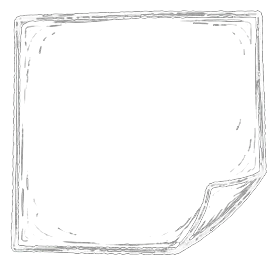
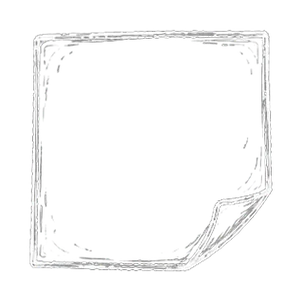
Demo 1 edits part 2: straight planner notes, Q48, Q51, wording
- Planner notes straight: tilt removed from PNGs in prepare-assets.py, uniform padding
- Q51: light --pencil-muted #6E6E6E; Q48: user data screen shows only the name
- Card without steps: muted "Видалити квест" under "Готово" with confirmation
- UI wording: "справа" instead of "нотатка", card subtitle always "Квест на ..."
- Nav label "Сьогодні" for the Planner tab; terms v1.1; Ukrainian proofreading
- Spec, CLAUDE.md, CLIENT_QUESTIONS.md and report updated

Changed region(s): [[0.0289, 0.0302, 0.9819, 0.966], [0.8087, 0.5736, 0.8375, 0.6038], [0.2022, 0.1811, 0.231, 0.2113]]

diff --git a/apps/mini-app/src/data/terms.js b/apps/mini-app/src/data/terms.js
@@ -1,4 +1,4 @@
-export const TERMS_VERSION = '1.0';
+export const TERMS_VERSION = '1.1';
 
 export const TERMS = {
   title: 'Умови користування',
@@ -10,20 +10,20 @@ export const TERMS = {
       text: 'Plan It Today допомагає планувати справи. Це не медична, психологічна чи юридична послуга й не замінює фахівця.',
     },
     {
-      title: 'Твої нотатки',
-      text: 'Нотатки й картки належать тобі й бачиш їх лише ти. Адміністрація бачить тільки загальну статистику (кількість користувачів і карток) і технічні дані. Зміст нотаток їй недоступний.',
+      title: 'Твої справи',
+      text: 'Справи й кроки належать тобі й бачиш їх лише ти. Адміністрація бачить тільки загальну статистику (кількість користувачів і карток) і технічні дані. Зміст справ їй недоступний.',
     },
     {
       title: 'Які дані ми зберігаємо',
-      text: 'Твій Telegram-ідентифікатор, нотатки, кроки, дати та налаштування (наприклад, тема). Геолокацію, контакти й файли ми не збираємо. Повний перелік твоїх даних: «Налаштування → Дані користувача».',
+      text: 'Твій Telegram-ідентифікатор, справи, кроки, дати та налаштування (наприклад, тема). Геолокацію, контакти й файли ми не збираємо. Видалити всі дані можна в «Налаштування → Дані користувача».',
     },
     {
       title: 'Не записуй зайвого',
-      text: 'Не зберігай у нотатках паролі, номери банківських карток і документи. Чутливі речі (наприклад, про здоров\'я) записуй лише якщо тобі це зручно.',
+      text: 'Не зберігай у справах паролі, номери банківських карток і документи. Чутливі речі (наприклад, про здоров\'я) записуй, лише якщо тобі це зручно.',
     },
     {
       title: 'ШІ',
-      text: 'У поточній версії ШІ не обробляє твої нотатки. Якщо така функція з\'явиться, ми попросимо окрему згоду.',
+      text: 'У поточній версії ШІ не обробляє твої справи. Якщо така функція з\'явиться, ми попросимо окрему згоду.',
     },
     {
       title: 'Видалення',

diff --git a/apps/mini-app/src/screens/quest.js b/apps/mini-app/src/screens/quest.js
@@ -22,7 +22,7 @@ import { store } from '../data/store.js';
 const STEP_MAX_LENGTH = 80;
 const TITLE_MAX_LENGTH = 500;
 
-const state = { cardId: null, adding: false, stepId: null, draft: null, month: '' };
+const state = { cardId: null, adding: false, stepId: null, draft: null, month: '', confirmDelete: false };
 let root = null;
 
 const getCard = () => store.getCard(state.cardId);
@@ -30,8 +30,7 @@ const getStep = () => store.getSteps().find((step) => step.id === state.stepId);
 
 function getSubtitle(card, progress, today) {
   if (card.status === 'done') return 'Виконано';
-  const kind = isQuest(progress) ? 'Квест' : 'Нотатка';
-  return card.date <= today ? `${kind} на сьогодні` : `${kind} на ${formatDayLabel(card.date, today)}`;
+  return card.date <= today ? 'Квест на сьогодні' : `Квест на ${formatDayLabel(card.date, today)}`;
 }
 
 function getBoxState(step, steps) {
@@ -83,7 +82,15 @@ function renderFinish(card, progress) {
     return '<button class="button" type="button" data-action="reopen">Повернути в план</button>';
   }
   if (!isQuest(progress)) {
-    return '<button class="button button--primary" type="button" data-action="finish">Готово</button>';
+    if (state.confirmDelete) {
+      return `
+        <p class="quest__warning">Видалити квест?</p>
+        <button class="button" type="button" data-action="deleteCard">Так, видалити</button>
+        <button class="screen__link" type="button" data-action="cancelDeleteNote">Ні, залишити</button>`;
+    }
+    return `
+      <button class="button button--primary" type="button" data-action="finish">Готово</button>
+      <button class="button button--muted" type="button" data-action="askDeleteNote">Видалити квест</button>`;
   }
   return `<button class="button button--primary" type="button" data-action="finish"${canFinishQuest(progress) ? '' : ' disabled'}>Завершити квест</button>`;
 }
@@ -245,7 +252,7 @@ export const questScreen = {
   tab: 'planner',
 
   render(params) {
-    Object.assign(state, { cardId: params.cardId, adding: false, stepId: null, draft: null });
+    Object.assign(state, { cardId: params.cardId, adding: false, stepId: null, draft: null, confirmDelete: false });
     return renderQuest();
   },
 
@@ -311,6 +318,16 @@ export const questScreen = {
     cancelDelete() {
       state.draft.confirmDelete = false;
       openModal(renderCardEditor());
+    },
+
+    askDeleteNote() {
+      state.confirmDelete = true;
+      refresh();
+    },
+
+    cancelDeleteNote() {
+      state.confirmDelete = false;
+      refresh();
     },
 
     deleteCard() {

diff --git a/apps/mini-app/src/screens/settings-data.js b/apps/mini-app/src/screens/settings-data.js
@@ -1,4 +1,3 @@
-import { formatDayLabel, toIsoDate } from '@plan-it-today/shared-types';
 import { escapeHtml } from '../core/html.js';
 import { navigate } from '../core/router.js';
 import { getTelegramUser } from '../core/telegram.js';
@@ -6,25 +5,10 @@ import { applyTheme } from '../core/theme.js';
 import { showToast } from '../core/toast.js';
 import { store } from '../data/store.js';
 
-const THEME_LABELS = { system: 'Системна', light: 'Світла', dark: 'Темна' };
-const NOT_IN_TELEGRAM = 'немає (відкрито не в Telegram)';
-
 function getFacts() {
   const user = getTelegramUser();
-  const profile = store.getProfile();
-  const counts = store.getCounts();
-  const accepted = profile.termsAcceptedAt
-    ? `версія ${profile.termsAcceptedVersion}, ${formatDayLabel(toIsoDate(new Date(profile.termsAcceptedAt)))}`
-    : 'ще ні';
-
-  return [
-    ['Telegram ID', user ? String(user.id) : NOT_IN_TELEGRAM],
-    ['Ім’я', user ? [user.first_name, user.last_name].filter(Boolean).join(' ') : NOT_IN_TELEGRAM],
-    ['Умови прийнято', accepted],
-    ['Тема', THEME_LABELS[profile.theme]],
-    ['Картки', String(counts.cards)],
-    ['Кроки', String(counts.steps)],
-  ];
+  const name = user ? [user.first_name, user.last_name].filter(Boolean).join(' ') : 'немає (відкрито не в Telegram)';
+  return [['Ім’я', name]];
 }
 
 export const settingsDataScreen = {

diff --git a/apps/mini-app/src/screens/ai-demo.js b/apps/mini-app/src/screens/ai-demo.js
@@ -82,7 +82,7 @@ function renderStep(step, isChild) {
 function renderNotebook() {
   return `
     <div class="notebook__page ai-demo__notebook">
-      <p class="notebook__title">Нова нотатка</p>
+      <p class="notebook__title">Нова справа</p>
       <p class="ai-demo__typed">${state.typed}<span class="ai-demo__caret" aria-hidden="true"></span></p>
       <span class="button button--compact${state.pressed ? ' button--primary ai-demo__press--pressed' : ''}${state.phase === 'pressing' ? ' ai-demo__press' : ''}">
         <span class="button__icon button__icon--sparkle" aria-hidden="true"></span>
@@ -132,7 +132,7 @@ function renderBody() {
     return renderCard({
       modifier: 'intro',
       heading: 'Демо ШІ-помічника',
-      text: 'Хвилина показу: помічник сам розбиває нотатку на кроки. Твої картки не зміняться.',
+      text: 'Хвилина показу: помічник сам розбиває справу на кроки. Твої картки не зміняться.',
       actions: `
         <button class="button button--primary" type="button" data-action="start">Почати</button>
         <button class="button" type="button" data-back>Скасувати</button>`,

diff --git a/apps/mini-app/src/screens/settings-dates.js b/apps/mini-app/src/screens/settings-dates.js
@@ -17,12 +17,12 @@ export const settingsDatesScreen = {
     return `
       <section class="screen">
         <h1 class="screen__title">Як писати дату</h1>
-        <p class="screen__text">Напиши дату словами прямо в нотатці, і справа стане на потрібний день.</p>
+        <p class="screen__text">Напиши дату словами прямо в тексті справи, і вона потрапить на потрібний день.</p>
         <ul class="cheatsheet">${rows}</ul>
         <ul class="screen__list">
           <li>Без дати справа йде на сьогодні.</li>
           <li>Слово з датою прибирається з назви: «зібрати речі, завтра» стане «зібрати речі» на завтра.</li>
-          <li>День тижня: найближчий, не раніше завтра.</li>
+          <li>День тижня: найближчий, не раніше ніж завтра.</li>
           <li>Дату видно на чипі в Записнику, її можна виправити в календарі.</li>
         </ul>
       </section>`;

diff --git a/apps/mini-app/src/styles/blocks/_note.scss b/apps/mini-app/src/styles/blocks/_note.scss
@@ -4,13 +4,6 @@ $papers: (
   3: note-curled,
 );
 
-$tilts: (
-  1: -2deg,
-  2: 1.5deg,
-  3: 1deg,
-  4: -1.2deg,
-);
-
 .note {
   position: relative;
   display: flex;
@@ -19,7 +12,7 @@ $tilts: (
   gap: 6px;
   width: 100%;
   aspect-ratio: 1;
-  padding: 27% 17% 19% 18%;
+  padding: 26% 21% 23%;
   background: center / 100% 100% no-repeat;
   text-align: left;
 }
@@ -27,12 +20,6 @@ $tilts: (
 @each $index, $image in $papers {
   .note--paper-#{$index} {
     background-image: var(--img-#{$image});
-  }
-}
-
-@each $index, $angle in $tilts {
-  .note--tilt-#{$index} {
-    transform: rotate($angle);
   }
 }
 
@@ -54,11 +41,15 @@ $decos: pill, cross, phone, bread, pot, broom, laptop, box, basket;
 
 .note__deco {
   position: absolute;
-  right: 16%;
-  bottom: 17%;
+  right: 21%;
+  bottom: 23%;
   width: 30px;
   height: 30px;
   background: center / contain no-repeat;
+}
+
+.note--paper-3 .note__deco {
+  right: 32%;
 }
 
 @each $deco in $decos {

diff --git a/apps/mini-app/src/screens/help.js b/apps/mini-app/src/screens/help.js
@@ -18,7 +18,7 @@ export const helpScreen = {
       <section class="screen screen--centered">
         <div class="screen__illustration screen__illustration--help" aria-hidden="true"></div>
         <h1 class="screen__title">Якщо важко</h1>
-        <p class="screen__text">Ти не мусиш справлятися сам. Зверніся до фахівця або на гарячу лінію.</p>
+        <p class="screen__text">Ти не мусиш справлятися сам. Звернися до фахівця або на гарячу лінію.</p>
         <button class="button button--primary" type="button" data-action="openSupport"${isOnline ? '' : ' disabled'}>
           Сайт підтримки
           <span class="button__icon button__icon--external" aria-hidden="true"></span>

diff --git a/apps/mini-app/src/screens/notebook.js b/apps/mini-app/src/screens/notebook.js
@@ -54,8 +54,8 @@ export const notebookScreen = {
     return `
       <section class="notebook">
         <div class="notebook__page">
-          <h1 class="notebook__title">Нова нотатка</h1>
-          <textarea class="notebook__input" rows="5" maxlength="500" aria-label="Текст нотатки"
+          <h1 class="notebook__title">Нова справа</h1>
+          <textarea class="notebook__input" rows="5" maxlength="500" aria-label="Текст справи"
             placeholder="аптека ввечері, ліки 600 грн, вітаміни 500">${escapeHtml(state.text)}</textarea>
           <div class="notebook__date">
             <button class="chip" type="button" data-action="openCalendar">

diff --git a/apps/mini-app/src/screens/settings-access.js b/apps/mini-app/src/screens/settings-access.js
@@ -15,7 +15,7 @@ export const settingsAccessScreen = {
         <ol class="howto">
           <li class="howto__step">
             <span class="howto__title">Кнопка «Відкрити»</span>
-            У чаті з ботом вона відкриває планер одразу з полем для нотатки.
+            У чаті з ботом вона відкриває планер одразу з полем для нової справи.
           </li>
           <li class="howto__step">
             <span class="howto__title">Закріпи чат</span>

diff --git a/apps/mini-app/src/data/ai-demo.js b/apps/mini-app/src/data/ai-demo.js
@@ -14,7 +14,7 @@ export const AI_DEMO = {
   rename: { id: 'cook', text: 'Приготувати пасту' },
   captions: {
     intro: 'Так працює ШІ-помічник',
-    typing: 'Ти пишеш нотатку як звичайно',
+    typing: 'Ти пишеш справу як звичайно',
     pressing: 'Натискаєш «Розписати в квест»',
     drawing: 'Помічник розбиває справу на кроки',
     quest: 'Квест готовий: прості кроки по 3-5 слів',

diff --git a/apps/mini-app/src/screens/planner.js b/apps/mini-app/src/screens/planner.js
@@ -8,11 +8,10 @@ import { getDecoIcon } from '../data/deco.js';
 import { store } from '../data/store.js';
 
 const PAPERS = 3;
-const TILTS = 4;
 
 function renderNote(card, progress, index) {
   const deco = getDecoIcon(card.title);
-  const modifiers = [`paper-${(index % PAPERS) + 1}`, `tilt-${(index % TILTS) + 1}`, card.status === 'done' && 'done']
+  const modifiers = [`paper-${(index % PAPERS) + 1}`, card.status === 'done' && 'done']
     .filter(Boolean)
     .map((modifier) => ` note--${modifier}`)
     .join('');

diff --git a/apps/mini-app/src/data/store.js b/apps/mini-app/src/data/store.js
@@ -66,7 +66,6 @@ export const store = {
   getCard: (id) => data.cards.find((card) => card.id === id) ?? null,
   getPlannerCards: (today) => getPlannerCards(data.cards, today),
   getDayCards: (day) => getDayCards(data.cards, day),
-  getCounts: () => ({ cards: data.cards.length, steps: data.steps.length }),
 
   addCard({ title, date }) {
     const card = {
